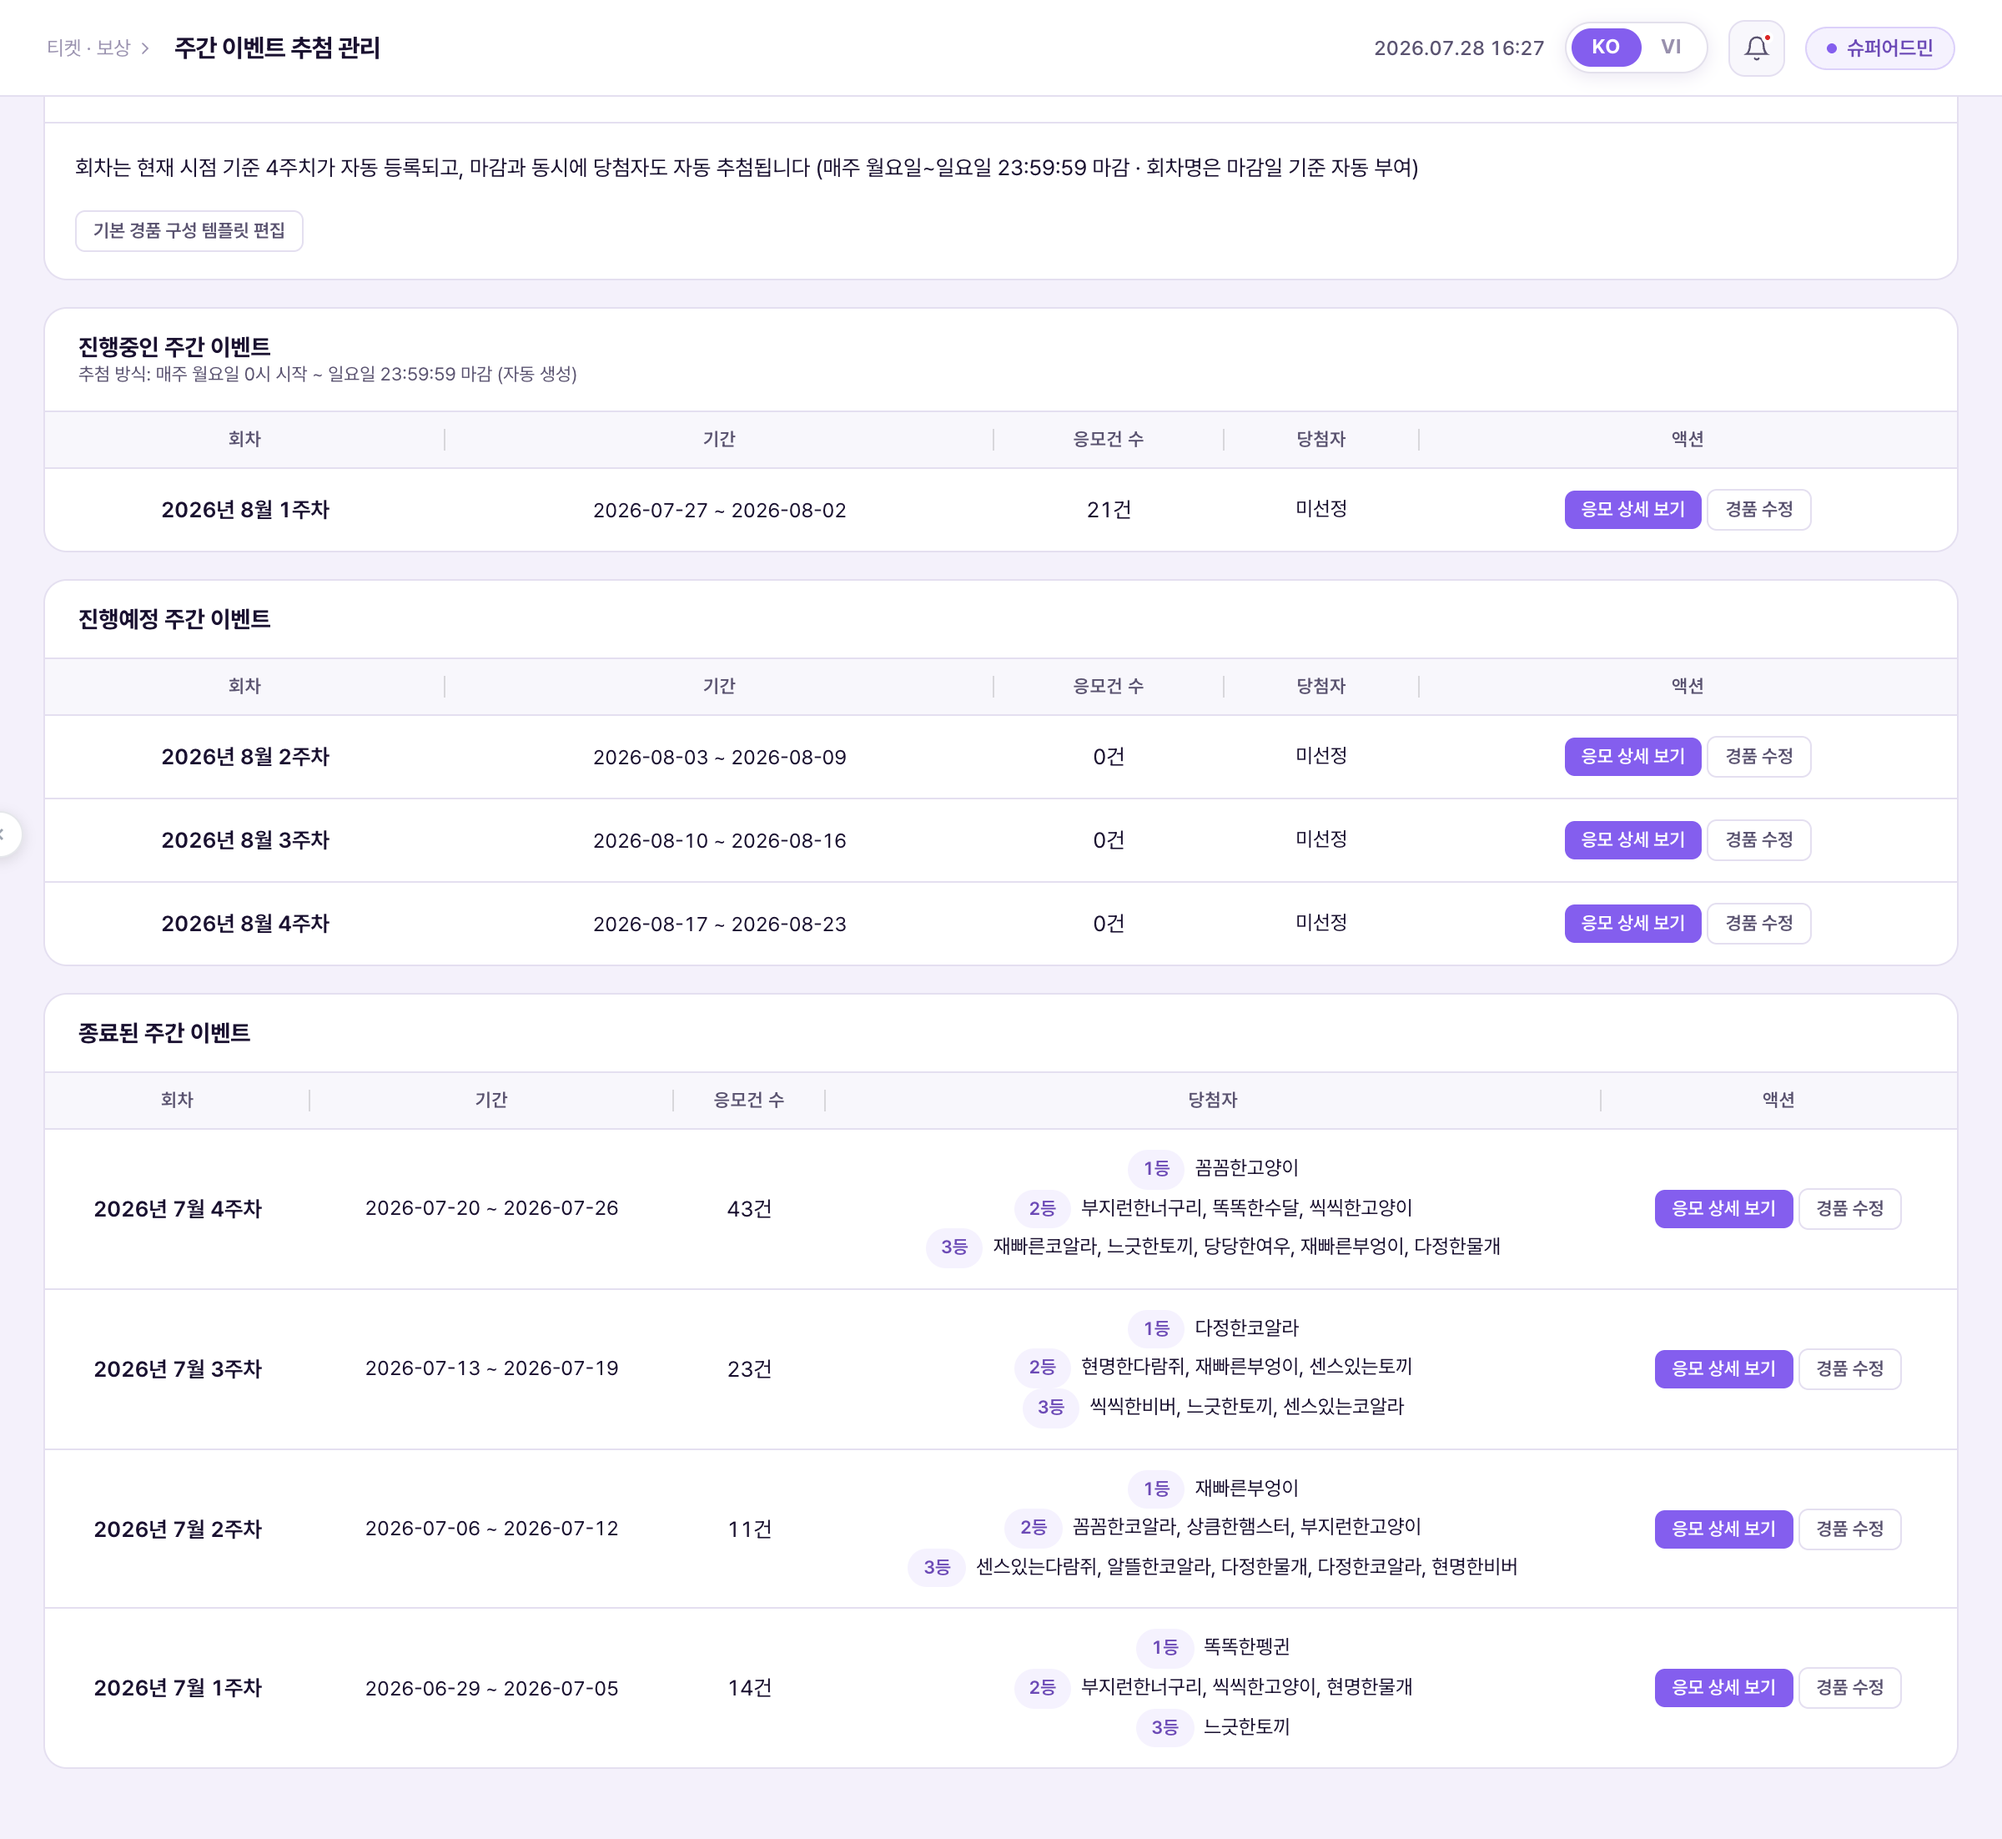
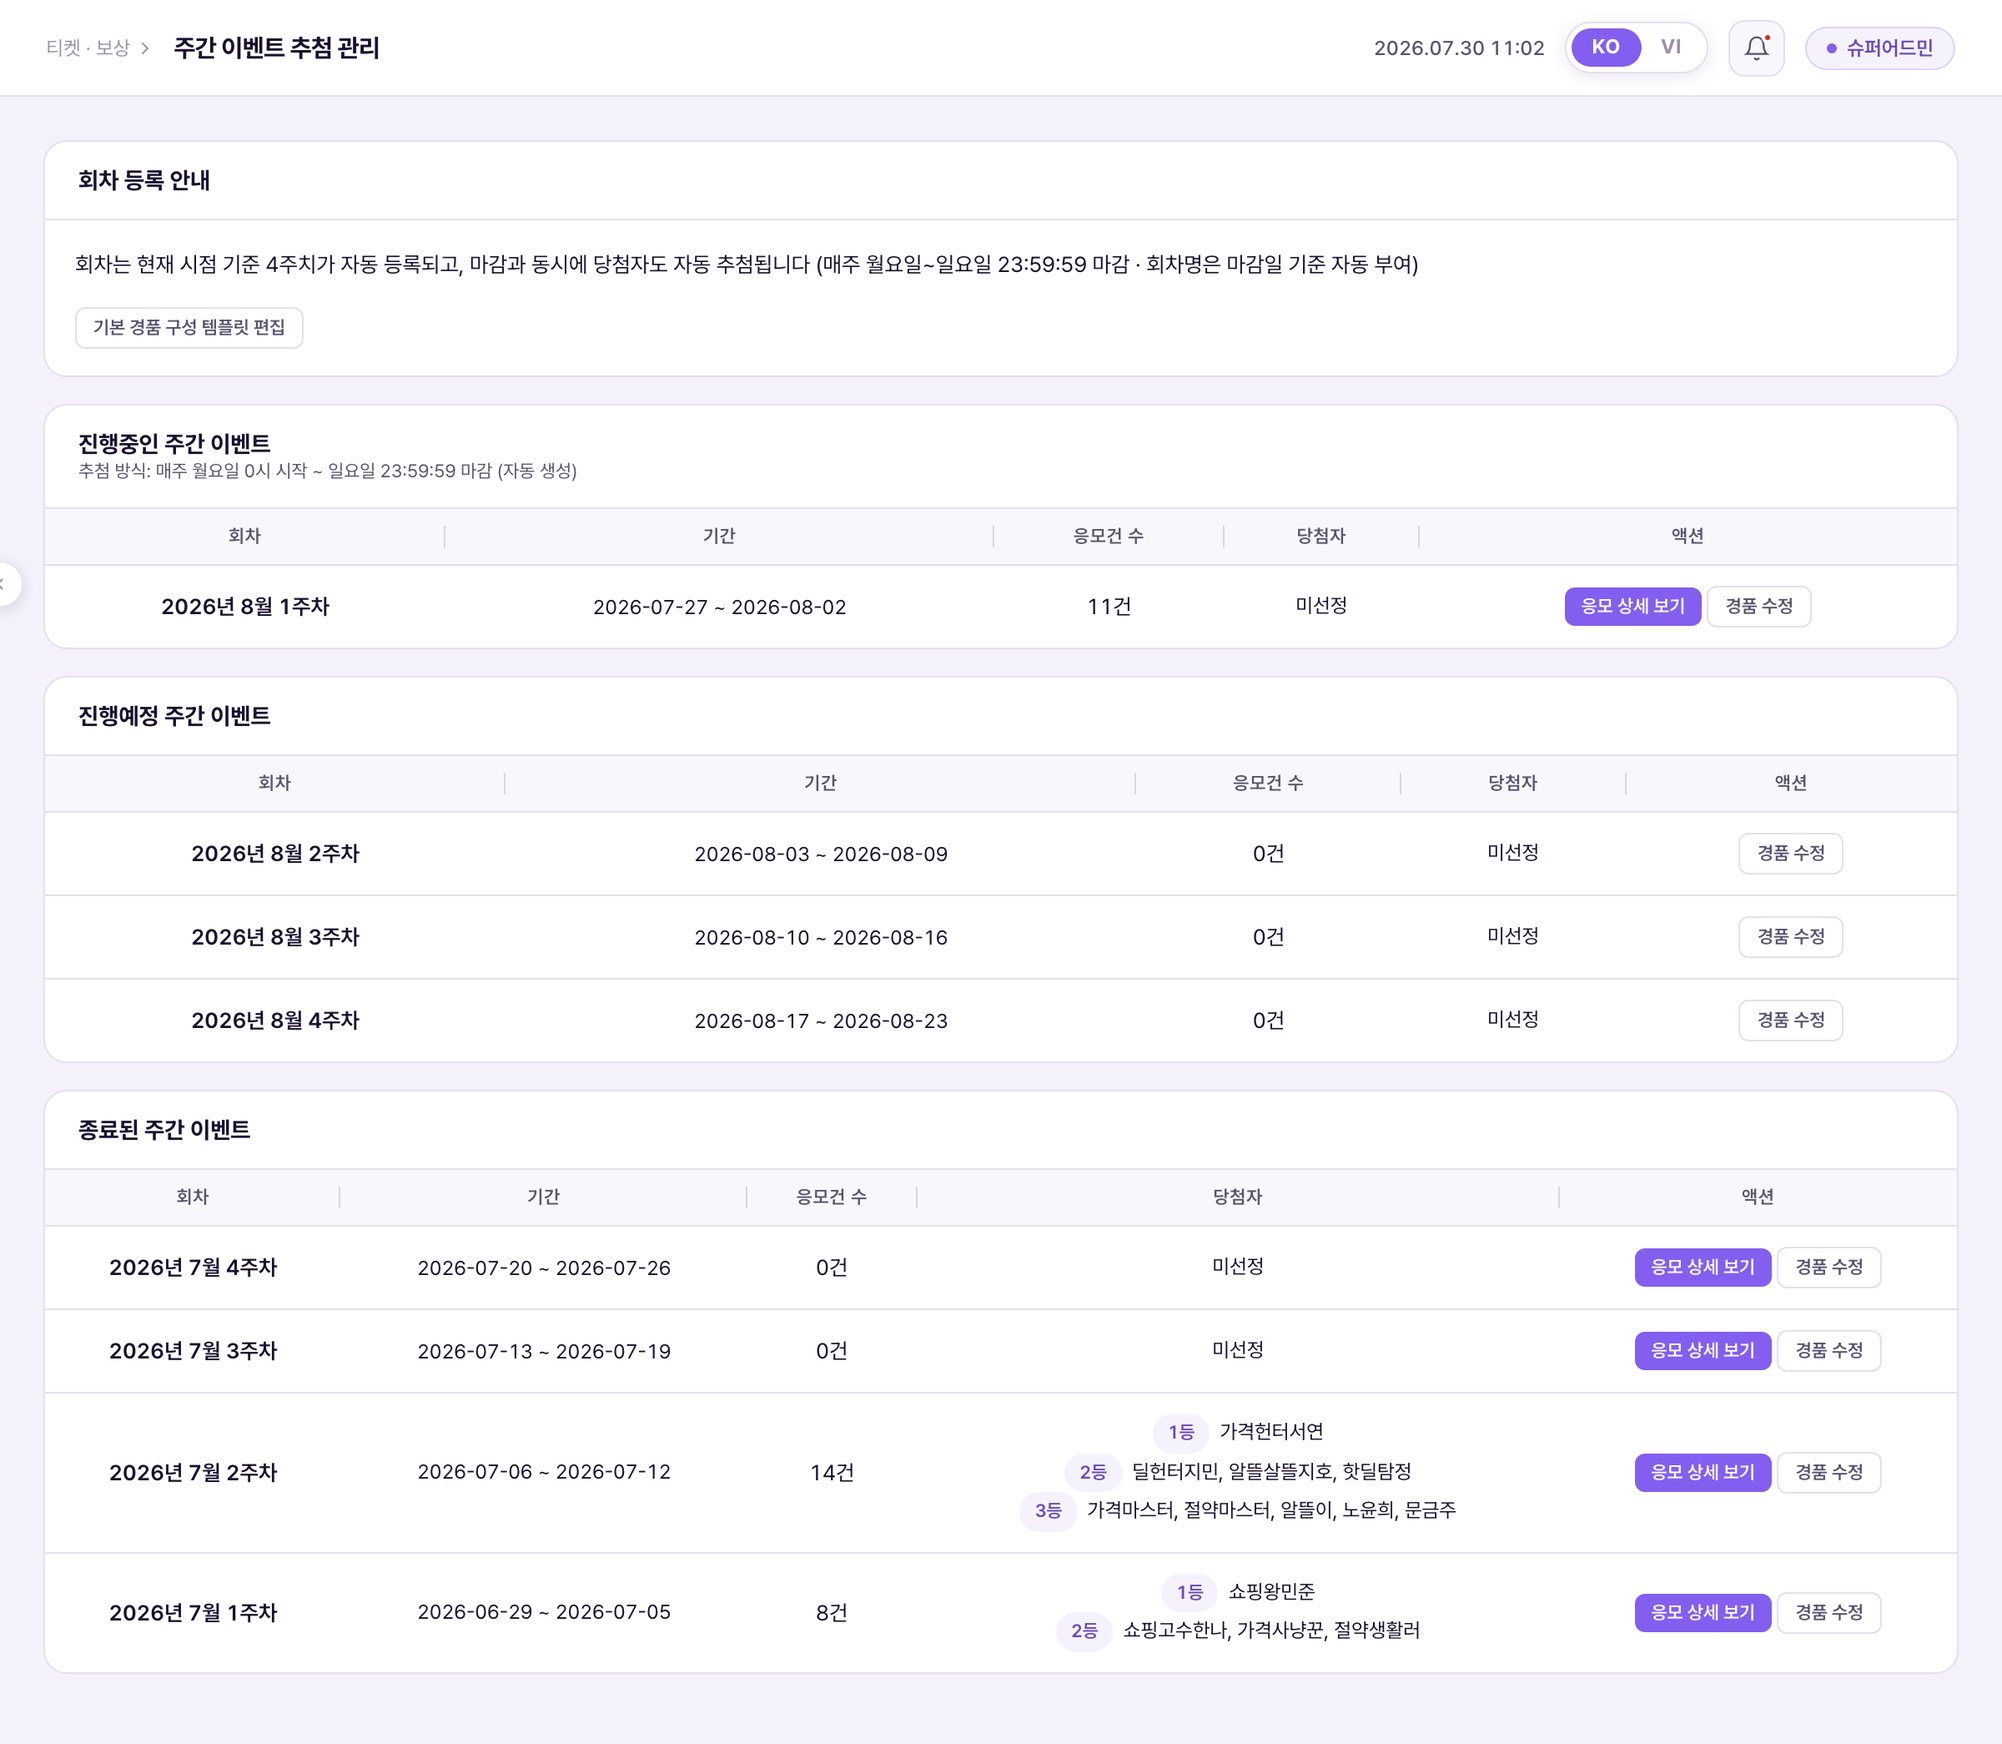
CMS 설명서(주간 이벤트 추첨 관리): 3구역 리스트 캡처 KO/VI 재촬영 — 진행예정 구역 "응모 상세 보기" 제거 반영

diff --git a/cms-storyboard/weekly-draws.html b/cms-storyboard/weekly-draws.html
@@ -85,7 +85,7 @@ code{font-family:'SF Mono',Menlo,monospace;font-size:11.5px;background:var(--bg)
   <tr><td><b><span class="i18n"><span class="ko">종료된 주간 이벤트</span><span class="vi">Sự kiện tuần đã kết thúc</span></span></b></td><td><span class="i18n"><span class="ko">마감이 지난 회차. 최신 회차가 위로 오도록 정렬</span><span class="vi">Đợt đã qua hạn đóng. Sắp xếp đợt mới nhất lên trên</span></span></td></tr>
 </table>
 <p><span class="i18n"><span class="ko">각 회차 행의 "응모건 수"는 그 회차에 이벤트 티켓이 쓰인 횟수다(뒤에서 설명하듯 티켓 1장 = 응모 1건이므로, 같은 사람이 여러 장 쓰면 그만큼 건수도 늘어난다). "당첨자"는 당첨자가 확정된 회차에만 등수별로 뜨고, 아직이면 "미선정"으로 표시된다.</span><span class="vi">"Số lượt dự thưởng" ở mỗi dòng đợt là số lần vé sự kiện được dùng trong đợt đó (vé 1 = dự thưởng 1 lượt như giải thích ở phần sau, nên 1 người dùng nhiều vé thì số lượt cũng tăng theo). "Người trúng" chỉ hiện theo hạng ở đợt đã chốt người trúng, còn chưa thì hiện "Chưa chọn".</span></span></p>
-<div class="shot"><img src="img/weekly-draws-01-list-overview.png" alt="회차 리스트 전체 화면 — 3구역"><div class="cap"><span class="i18n"><span class="ko">실측 캡처 — 회차 자동 등록 안내 + 3구역 리스트(2026-07-28)</span><span class="vi">Ảnh chụp thực tế — hướng dẫn đăng ký đợt tự động + danh sách 3 khu vực (2026-07-28)</span></span></div></div>
+<div class="shot"><img src="img/weekly-draws-01-list-overview.png" alt="회차 리스트 전체 화면 — 3구역"><div class="cap"><span class="i18n"><span class="ko">실측 캡처 — 회차 자동 등록 안내 + 3구역 리스트(2026-07-30). 진행예정 구역은 "경품 수정"만 있고 "응모 상세 보기"가 없다</span><span class="vi">Ảnh chụp thực tế — hướng dẫn đăng ký đợt tự động + danh sách 3 khu vực (2026-07-30). Khu vực sắp diễn ra chỉ có "Chỉnh sửa giải thưởng", không có "Xem chi tiết dự thưởng"</span></span></div></div>
 
 <h2 class="sec"><span class="i18n"><span class="ko">4. 경품 구성</span><span class="vi">4. Cấu hình quà</span></span></h2>
 <p><span class="i18n"><span class="ko">회차별 "경품 수정" 버튼을 누르면 그 회차의 등수별 경품만 고칠 수 있다. 회차명·기간은 자동 등록 규칙으로 고정돼 있어 이 모달에서 바꿀 수 없다 — 등수, 경품명, 당첨자 수(=그 등수에 몇 명 뽑을지)만 입력한다. 새로 자동 생성되는 회차는 "기본 경품 구성 템플릿"을 그대로 복사해서 만들어지며, 이 템플릿은 화면 상단 "기본 경품 구성 템플릿 편집" 버튼에서 미리 정해둔다. 템플릿을 바꿔도 이미 만들어진 회차에는 영향이 없고, 그 이후 새로 생기는 회차부터 적용된다.</span><span class="vi">Bấm nút "Chỉnh sửa giải thưởng" ở từng đợt để chỉ sửa quà theo hạng của đợt đó. Tên đợt·thời gian đã cố định theo quy tắc đăng ký tự động nên không sửa được trong modal này — chỉ nhập hạng, tên quà, số người trúng (=chọn bao nhiêu người ở hạng đó). Đợt mới được tạo tự động sẽ sao chép nguyên "Mẫu cấu hình quà mặc định", mẫu này được đặt trước ở nút "Sửa mẫu cấu hình quà mặc định" phía trên màn hình. Đổi mẫu không ảnh hưởng đợt đã tạo, chỉ áp dụng cho đợt tạo sau đó.</span></span></p>
